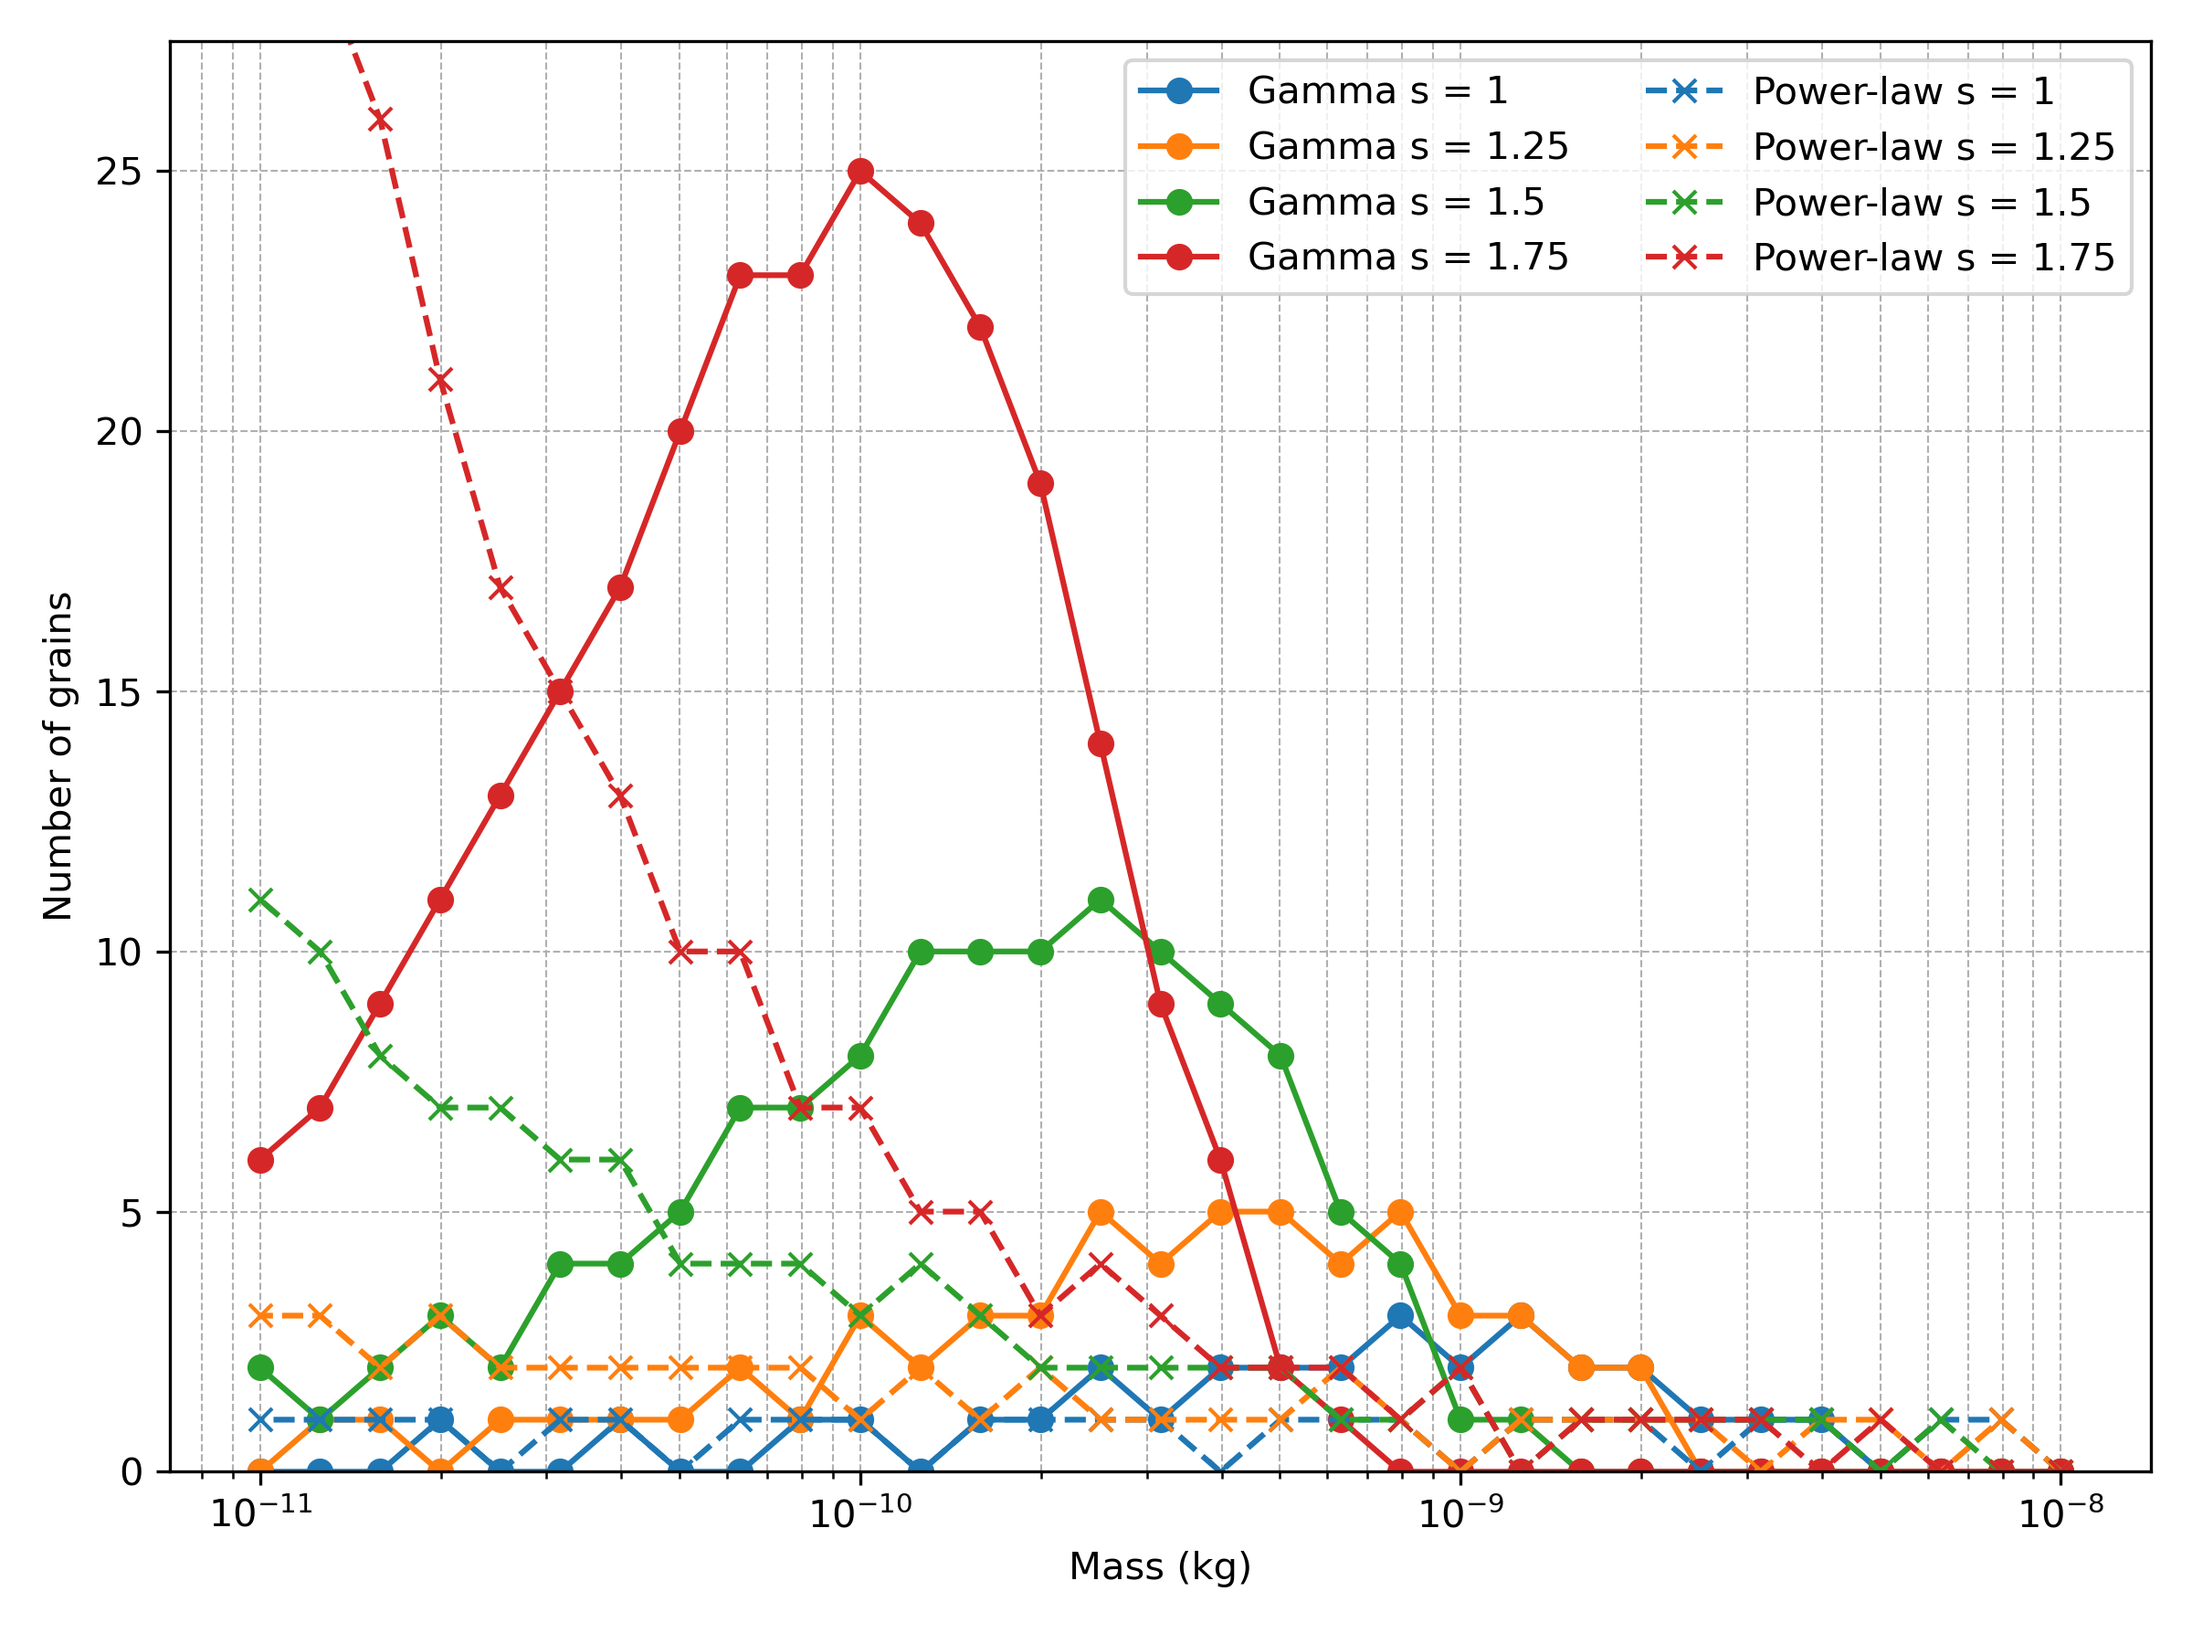
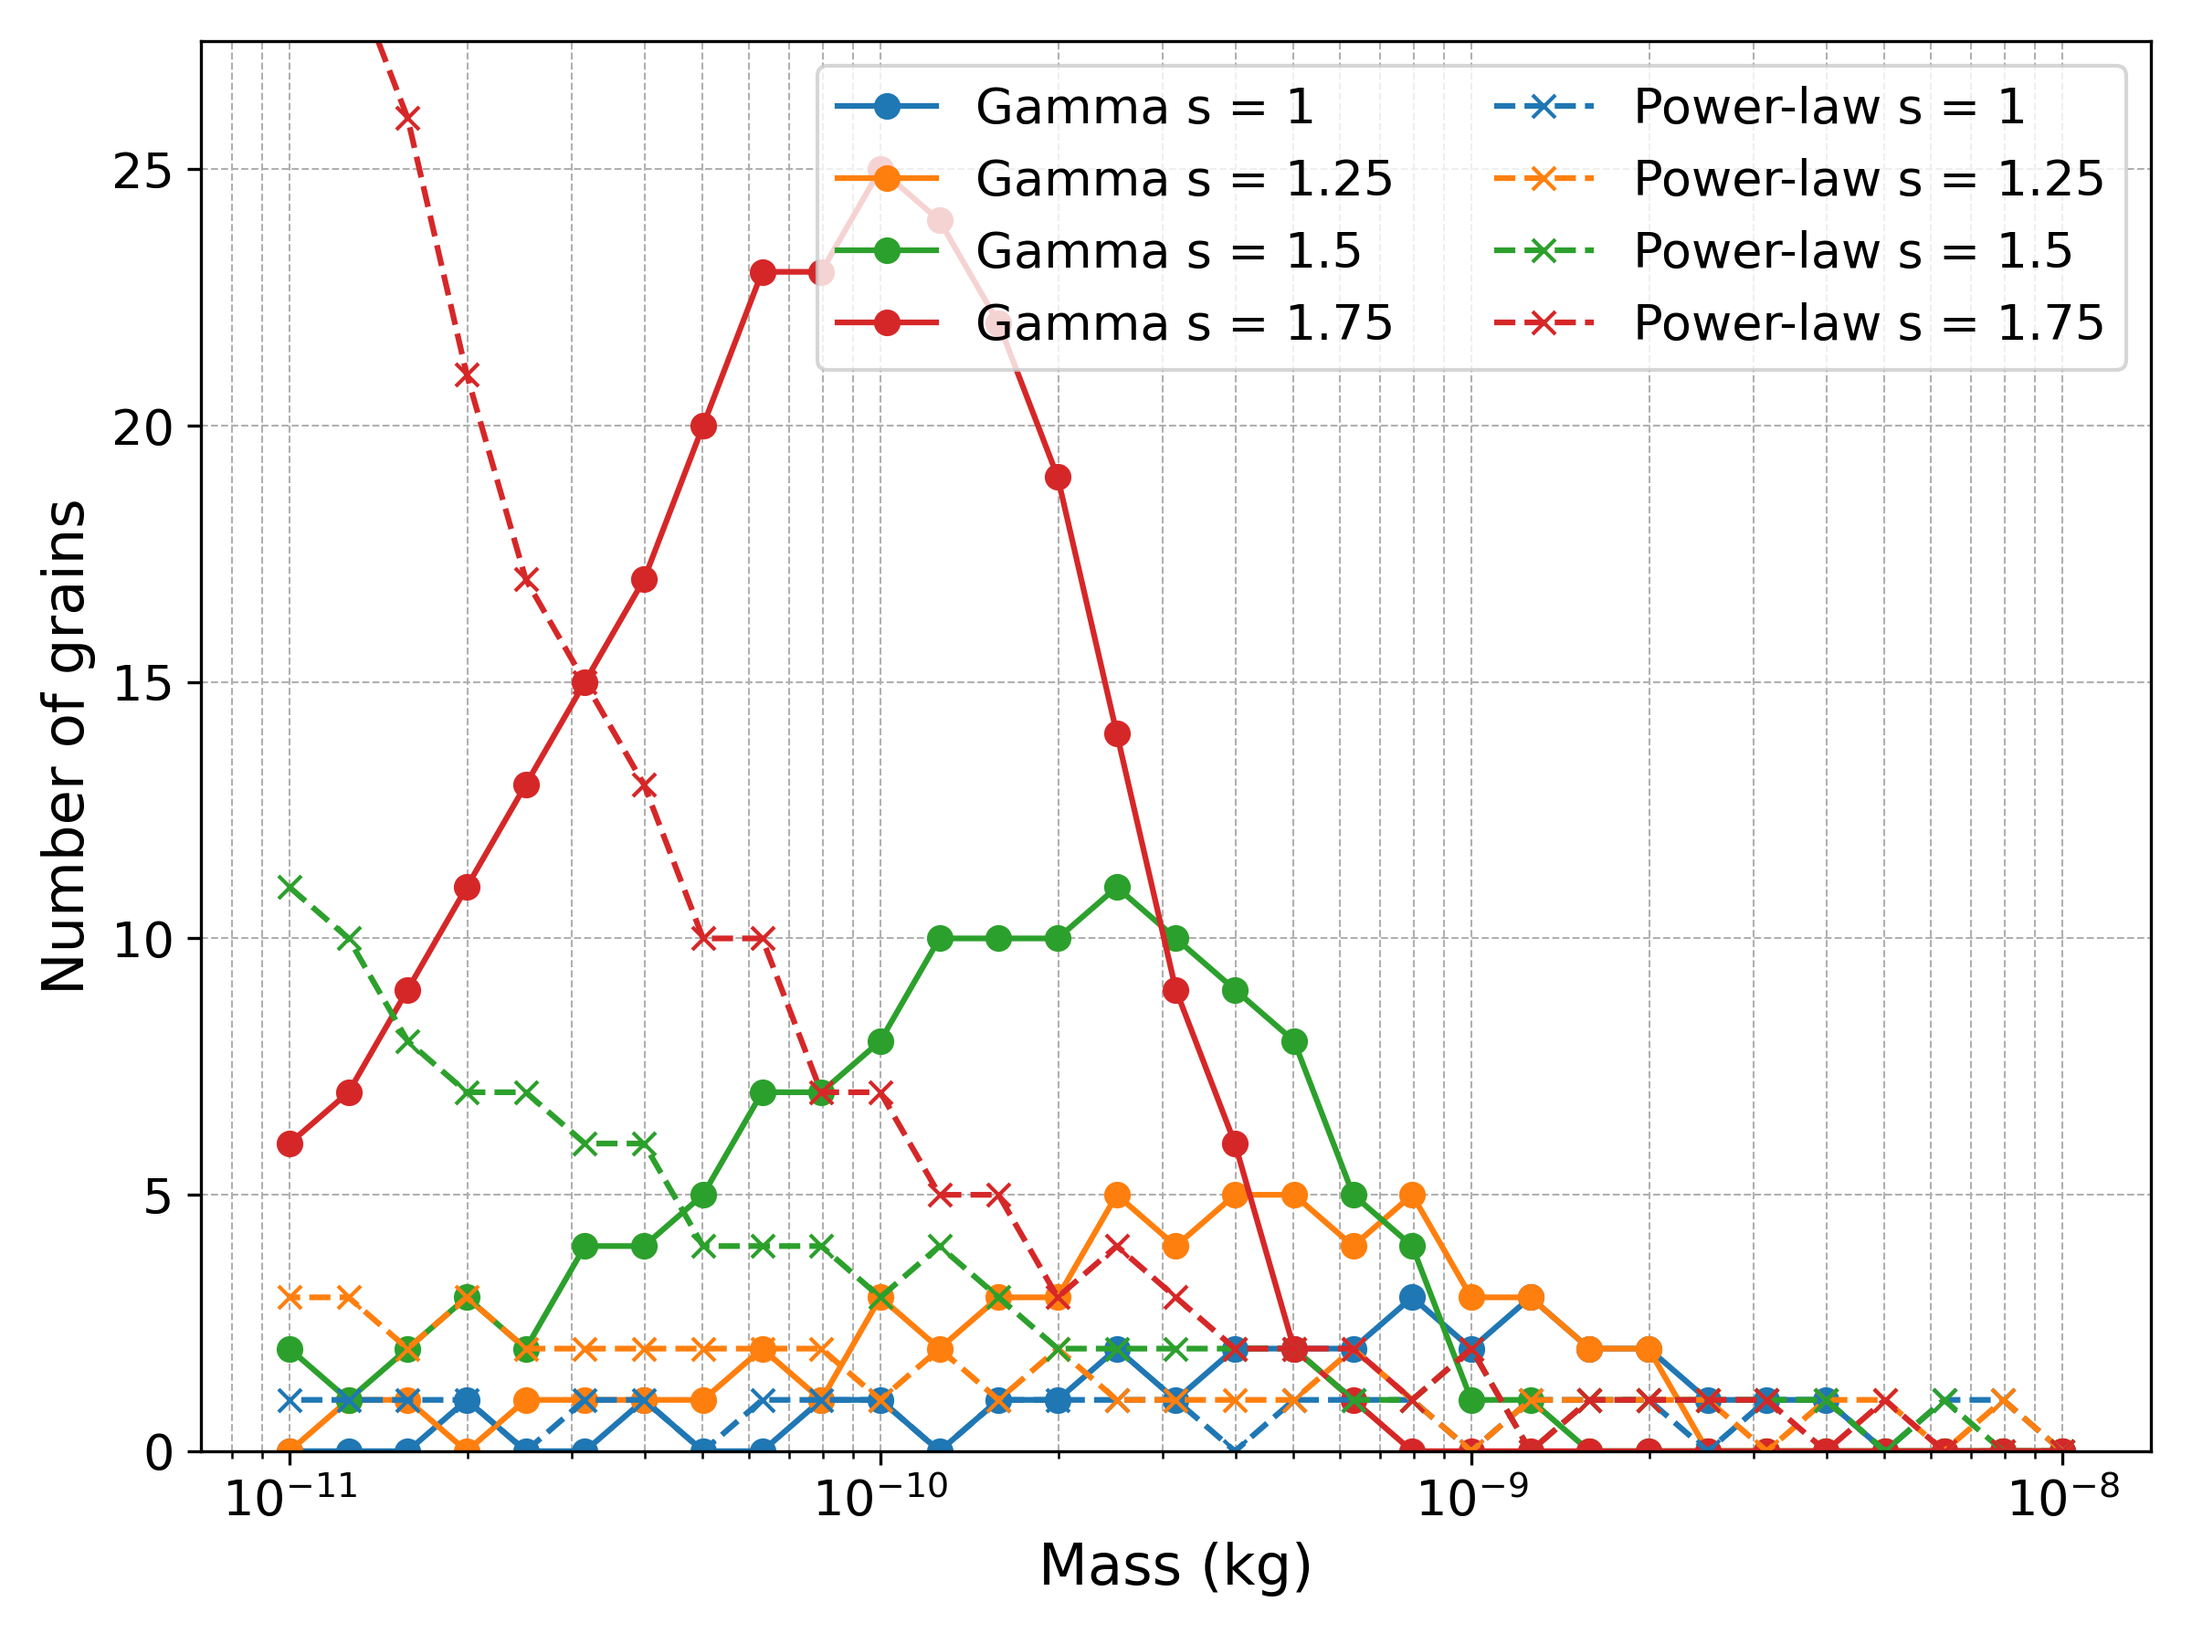
iron plot better bigger labels and need for plot

diff --git a/Code/DynNestSampl/iron_model_tests/ironPaper_particles_fast.py b/Code/DynNestSampl/iron_model_tests/ironPaper_particles_fast.py
@@ -52,7 +52,7 @@ def compute_gamma_distribution_with_leftover(
         int_counts[i] = int(expected_count)
         leftover_mass = (expected_count - int_counts[i]) * mass_bins[i]
 
-    return mass_bins, int_counts
+    return mass_bins, int_counts, m_mean
 
 def compute_pwerlaw_distribution_with_leftover(
     erosion_bins_per_10mass=10,
@@ -97,6 +97,7 @@ def compute_pwerlaw_distribution_with_leftover(
 # Parallel execution for multiple mass indices
 # mass_indices = [1, 1.25, 1.5, 1.75]
 mass_indices = [2, 2.25, 2.5, 2.75, 3]
+# mass_indices = [2]
 results = {}
 results_pow = {}
 with ThreadPoolExecutor() as executor:
@@ -106,8 +107,8 @@ with ThreadPoolExecutor() as executor:
     }
 
     for idx, future in futures.items():
-        mass_bins, int_counts = future.result()
-        results[idx] = (mass_bins, int_counts)
+        mass_bins, int_counts, m_mean = future.result()
+        results[idx] = (mass_bins, int_counts, m_mean)
 
     futures_powerlaw = {
         idx: executor.submit(compute_pwerlaw_distribution_with_leftover, mass_index=idx)
@@ -121,9 +122,12 @@ with ThreadPoolExecutor() as executor:
 # Plotting
 fig, ax = plt.subplots(figsize=(8, 6))
 
+
 for idx in mass_indices:
-    mass_bins, int_counts = results[idx]
+    mass_bins, int_counts, m_mean = results[idx]
+    # ax.axvline(m_mean, color='r', linestyle='--', linewidth=2, label=r'$\langle m \rangle$', zorder=0)
     ax.plot(mass_bins, int_counts, marker='o', linestyle='-', label=f'Gamma s = {idx}')
+
 # reset the color cycle for the next plot
 ax.set_prop_cycle(None)
 for idx in mass_indices:
@@ -131,17 +135,21 @@ for idx in mass_indices:
     ax.plot(mass_bins_pow, int_counts_pow, marker='x', linestyle='--', label=f'Power-law s = {idx}')
 
 # make the y axis up to the biggest number of grain of gamma distribution mass_bins
-max_y = max(max(int_counts) for _, int_counts in results.values())
+max_y = max(max(int_counts) for _, int_counts, _ in results.values())
 ax.set_ylim(0, max_y * 1.1)
 
 ax.set_xscale('log')
-ax.set_xlabel('Mass (kg)')
-ax.set_ylabel('Number of grains')
+ax.set_xlabel('Mass (kg)', fontsize=15)
+ax.set_ylabel('Number of grains', fontsize=15)
+# increase te size of the number in x and y axis
+ax.tick_params(axis='both', which='major', labelsize=13)
 # ax.set_title('Gamma Distribution Fragment Counts with Leftover Mass Handling')
 ax.grid(True, which='both', linestyle='--', linewidth=0.5)
 # make the legend 2 columns
 # ax.legend(title='Distribution Type', loc='upper right', ncol=2)
-ax.legend(ncol=2)
+# put it top right
+ax.legend(ncol=2, fontsize=13, loc='upper right')
+# ax.legend(fontsize=15)
 # save the figure
 plt.tight_layout()
 plt.savefig(output_path + os.sep + 'gamma_distribution_fragment_counts_s'+str(np.min(mass_indices))+'-'+str(np.max(mass_indices))+'.png', dpi=300)

diff --git a/Code/DynNestSampl/distrib_plot/erosion_energy_F_Kc_distribution.py b/Code/DynNestSampl/distrib_plot/erosion_energy_F_Kc_distribution.py
@@ -1022,8 +1022,11 @@ def extract_other_prop(input_dirfile, output_dir_show, name_distr="", lambda_val
             ax[0].grid()
             ax[1].grid()
             # put the legend in the right lower corner
-            ax[1].legend(loc='lower left')
-            ax[0].legend(loc='lower right')
+            ax[1].legend(loc='lower left', fontsize=13)
+            ax[0].legend(loc='lower right', fontsize=13)
+            # in crease the size of the lables
+            ax[0].tick_params(axis='both', which='major', labelsize=15)
+            ax[1].tick_params(axis='both', which='major', labelsize=15)            
             # plt.show()
             # save in folder_name as base_name+"_erosion_energy_profile.png"
             fig.tight_layout()
